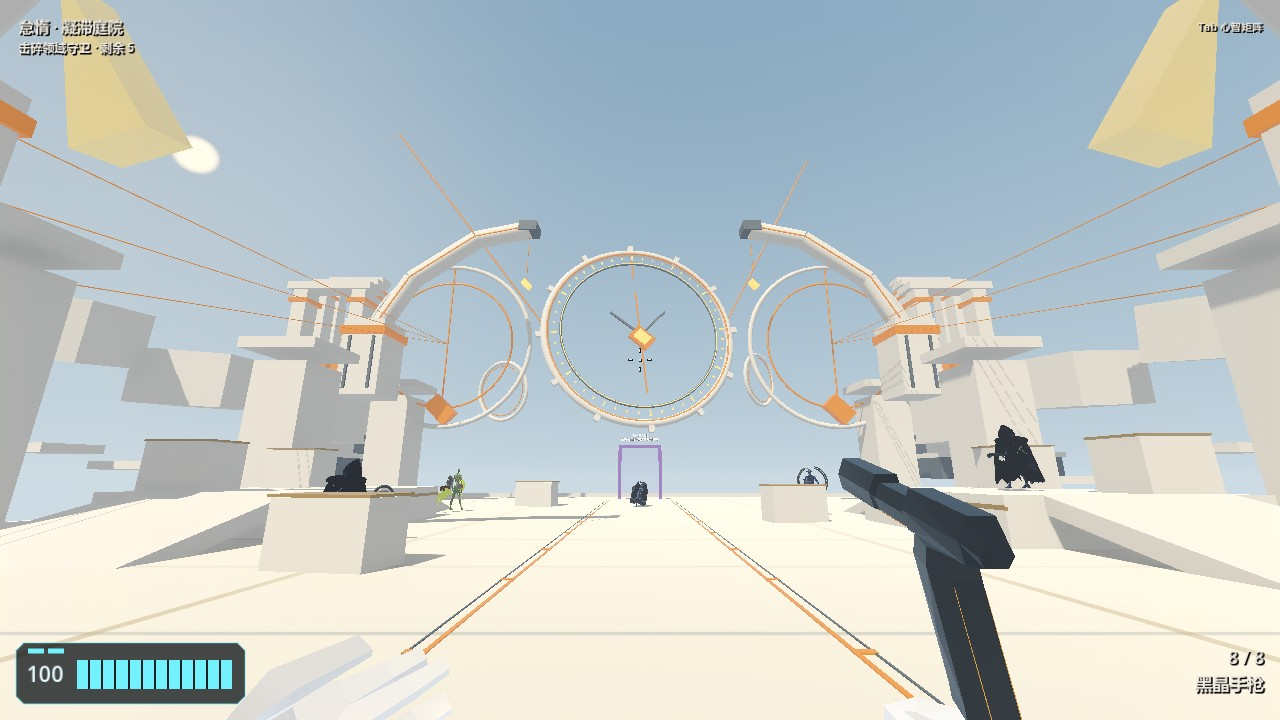
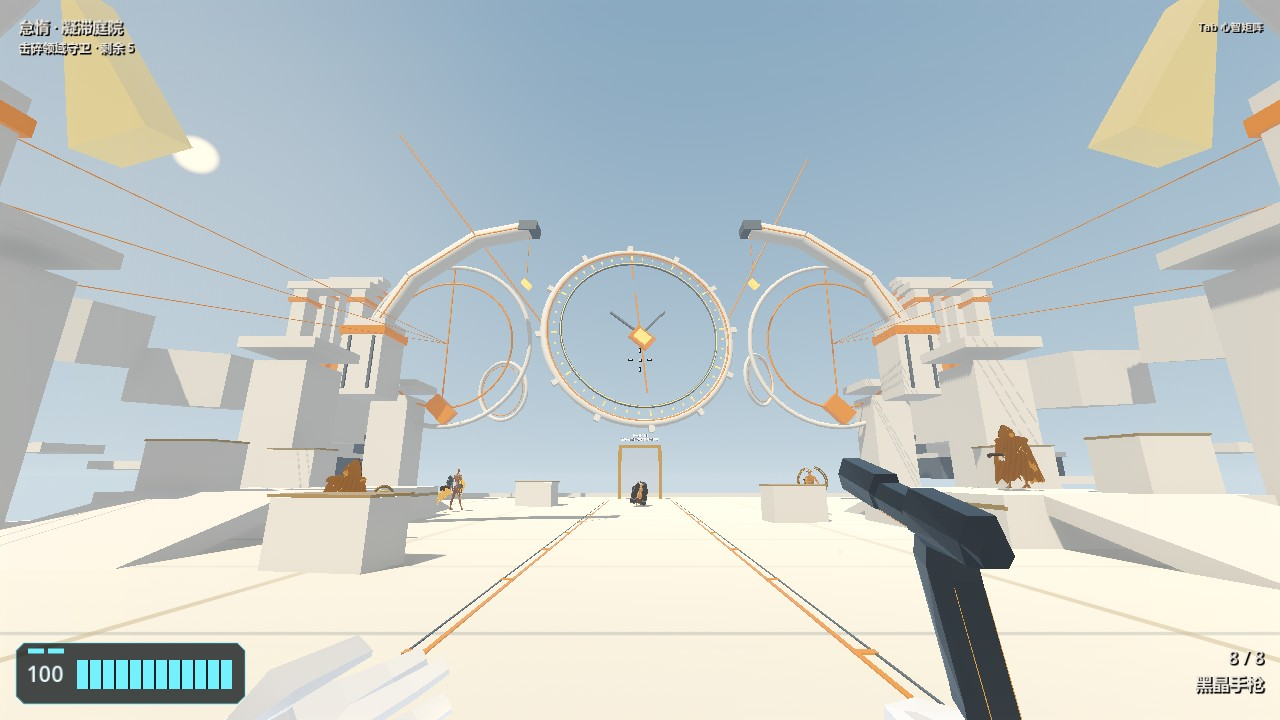
Use the golden Sloth palette in Realm encounters

diff --git a/docs/proof/sloth-sanctum-combat/README.md b/docs/proof/sloth-sanctum-combat/README.md
@@ -12,18 +12,24 @@
 
 | 守卫 | 生命 | 玩法 |
 | --- | ---: | --- |
-| 迟滞者 | 90 | 藏青兜帽和破洞披风，右手持钟环法杖。四枚晶体在杖头附近凝聚 2 秒，最后 0.45 秒锁向，再以 0.18 秒间隔直射。速度 40 米/秒，每枚基础伤害 9。闭篷单弹闪避率 30%，成功冷却 2.5 秒。施法后段暴露双倍胸口弱点，结束或被打断后保留 1 秒。 |
+| 迟滞者 | 90 | 暗金兜帽和破洞披风，右手持钟环法杖。四枚金色晶体在杖头附近凝聚 2 秒，最后 0.45 秒变为浅金并锁向，再以 0.18 秒间隔直射。速度 40 米/秒，每枚基础伤害 9。闭篷单弹闪避率 30%，成功冷却 2.5 秒。施法后段暴露双倍胸口弱点，结束或被打断后保留 1 秒。 |
 | 锚定者 | 140 | 原地向玩家脚下放定点领域。0.95 秒前摇，半径 3.2 米，持续 2.6 秒，领域内步行减速 25%。掩体、离开范围和击倒施法者均可脱离，可冲刺。 |
 | 退缩者 | 180 | 接近后开壳，0.95 秒前摇发低位扩散波。半径 7 米，波速 9 米/秒，命中一次 14 伤，朝起手方向留下 44° 缺口。可跳过、钻缺口或用实体掩体挡；释放后开壳弱点保留 1.6 秒。 |
 | 凝胶异形 | 105 | 不对称的肩背、歪头和拉长的手臂。1.15 秒蓄力，最后 0.35 秒锁向，发射 12 米/秒的直线球。命中后步行减速 35%，每 0.25 秒结算 2.5 点，共四次。定向投射可绕开、被墙挡住或弹反。近战击退可打断前摇；同类持续效果刷新时长，不叠加并行伤害。 |
 
 两小关各增加一名持杖迟滞者与一名凝胶异形。第一房的编排为 2 杖、1 锚、1 退缩、1 凝胶，共 5 名。第二房为 3 杖、2 锚、1 退缩、1 凝胶，共 7 名。伤害和生命沿用领域深度缩放。凝胶段伤害走正常防御结算，深渊、死亡、过门与选卡沿用正式关流程。旧的占点路线与旧独立测试房仍用原配置。
 
+## 金黄色主题
+
+正式关的披风、法杖和晶体轮廓改为暗金至浅金。锚定场与退缩波统一为琥珀黄，分别通过完整定点环和有缺口的移动波区分。凝胶异形用深琥珀骨架搭配蜂蜜金树脂球，和含金属轮廓的其他守卫区分。关闭的门扉采用暖金，白色石材继续作为背景。下方为本次重新拍摄的实机画面。
+
 ## 验证
 
 Godot 4.7.2 原生 Forward+ / Vulkan / RTX 4060 Laptop GPU，1280×720。专门检查覆盖实际走上侧台、导航到达高台、AI 主动起手、四弹释放与锁向后横移、定点减速、低位波缺口与命中、黏液遮挡与四段伤害、暂停及近战打断。原生画面、无界面回归、主线与当前分支的 fixture 结果见本目录日志。
 
 原生 33 项通过，含 4 张截图。14 组相关无界面测试通过，其中正式战役 98 项、天赋球 68 项、新怠惰战斗 29 项、领域坠落 24 项。与主线文件树一致的基线和本分支分别运行固定 60 Hz fixture，FX-001 保持 `edc3fc82c34f1bc0`，FX-002 保持 `ad3703cd93d3073e`。重新运行地图生成器仅产生第二房的 `chamber_style` 预期改动。原生与相关运行日志无脚本错误。源码、证据和截图的 SHA256 记在 `validation.json`。
+
+配色修订再次通过原生 33 项，并复跑正式房间、旧怠惰敌人、沉眠巨像与恐惧引魂者。配色复验见 `gold-native.log` 和 `gold-regression.log`。
 
 Windows 导入仍记录了宿主已知的 `Safe save failed`。本次移除了上游选卡取图场景开头导致 Godot 解析失败的 UTF‑8 BOM。该文件的场景节点保持原样。敌人数与攻击强度为目前的试玩默认。
 

diff --git a/README.md b/README.md
@@ -1,6 +1,6 @@
 # Battlefield Rouge
 
-**怠惰 · 凝滞庭院（2026-11-18，#226）**　两小关新增侧台和双向坡道，门扉距离仍为 36 米。上方加入悬吊巨钟、断拱和浮空钟楼，Boss 房使用更大的巨钟。两房分别有 5 和 7 名守卫。藏青斗篷迟滞者持杖四连发，锚定者放置定点减速场，退缩者发出留有缺口的低位波，新增的凝胶异形会在蓄力后发射减速黏液球。[设计、实机和验证](docs/proof/sloth-sanctum-combat/README.md)。
+**怠惰 · 凝滞庭院（2026-11-18，#226）**　两小关新增侧台和双向坡道，门扉距离仍为 36 米。上方加入悬吊巨钟、断拱和浮空钟楼，Boss 房使用更大的巨钟。两房分别有 5 和 7 名守卫。敌人和攻击统一用怠惰的金黄色，暗金斗篷迟滞者持杖四连发，锚定者放置定点减速场，退缩者发出留有缺口的低位波，凝胶异形发射蜂蜜色减速黏液球。[设计、实机和验证](docs/proof/sloth-sanctum-combat/README.md)。
 
 **恐惧战斗卡顿优化（2026-11-16，#219）：** 房间加载时准备3只待召唤幽魂、56块死亡碎片节点和馈赠目录，战斗中分帧补充/回收。保留幽魂表情、射杀、状态和真实碎片碰撞。本机原生首次召唤最长帧67.4→2.2–3.3ms，最后击杀首次弹卡264.9→43.8–44.0ms；奖励界面仍有构建开销，数据不代表所有设备。[测量、限制与验证](docs/proof/fear-hitches/README.md)。
 

diff --git a/GLOSSARY.md b/GLOSSARY.md
@@ -174,7 +174,7 @@
 | --- | --- | --- |
 | 领域编排器 | `RunDirector` | 深度缩放、跨房保存和终局入口的组合根；本轮暂固定恐惧→怠惰→愤怒→悲伤，随机无重复排列分支保留，默认关闭。 |
 | 领域房间 | `RealmStage` | 两间战斗房及一间Boss房的注入式流程，真实清敌/选卡/拾取/门扉交互。 |
-| 迟滞者 / 锚定者 / 退缩者 | `SlothEnemy` | 正式怠惰房复用早期三类技能。持杖蓄力四连发、定点减速场、带安全缺口的低位开壳波。 |
+| 迟滞者 / 锚定者 / 退缩者 | `SlothEnemy` | 正式怠惰房复用早期三类技能并使用金黄配色。持杖蓄力四连发、定点减速场、带安全缺口的低位开壳波。 |
 | 凝胶异形 | `SlothMire` | 扭曲肩背和不对称拉长的手臂。蓄力后吐出直飞黏液球，命中减速 35% 并在 1 秒内结算 10 点基础伤害。 |
 | 悬钟侧台 | `SlothRealm` / `SlothClockwork` | 两小关保留地面主通道，两侧各有 1.25 米高台和前后坡道。悬吊巨钟、断拱及浮空钟楼为纯景观。 |
 | 沉眠巨像 | `SlothColossus` | 蜷缩琥珀背甲聚合体；击败后休息区永久熄灭。 |

diff --git a/docs/levels/SLOTH_LEVEL_DESIGN.md b/docs/levels/SLOTH_LEVEL_DESIGN.md
@@ -2,6 +2,8 @@
 
 > 2026-11-18 正式关修订。两小关使用 40×48 米庭院，门扉距出生点南北方向 36 米。高空巨钟、断拱和钟楼扩大剪影，两侧以高台、短坡和掩体增加战斗路线。三类守卫的技能以 PR #92 的旧设计为基底。第一房与第二房分别有 2/3 名持杖迟滞者、1/2 名锚定者、各 1 名退缩者与 1 名凝胶异形。详见[当前实现和验证](../proof/sloth-sanctum-combat/README.md)。以下保留原 v0.1 草案。
 
+> 同日配色修订。正式怠惰守卫与攻击回到金黄色主题。斗篷用暗金布和浅金轮廓，锁向时晶体由琥珀变为浅金，黏液使用蜂蜜色。场景保留白石，关闭的门扉用暖金，与悬钟和地面镶条相呼应。
+
 > 2026-11-01 仓库归属更正：本轮任务与实现统一在 Battlefield-Rouge，关联 #45（开场）、#46（场景）、#47（迟滞者）。下方保留原 v0.1 设计草案；当前仅将开场接入现有游戏，完整 Sloth 场景与敌人仍是待开发内容。
 
 > **文件类型**：Level Design Document / LDD（第一层关卡设计草案）

diff --git a/docs/ASSETS.md b/docs/ASSETS.md
@@ -4,6 +4,8 @@
 
 悬钟、断拱、远处钟楼、法杖及黏液球均由项目内代码生成。凝胶异形复用已登记的红晶体骨骼，采用独立材料、骨骼姿态和凸起几何。披风、锚环和开壳结构复用项目原有 SlothVisual。天空和石板沿用已登记的怠惰着色器。取证图来自 Godot 4.7.2 原生运行，保存为 JPEG，原生画面未重绘。来源和逐文件 SHA256 见 [验证记录](proof/sloth-sanctum-combat/README.md)。
 
+金黄色修订使用游戏内实例材质和现有披风着色器的施法光色参数。披风、法杖、场地攻击和黏液球的重新取图沿用原证明目录。
+
 ## 恐惧卡顿优化取证（2026-11-16，#219）
 
 `docs/proof/fear-hitches/wisp-warning.jpg`为本项目Godot4.7.2原生`fear_reaper_test.tscn`截图，展示预建演员激活后仍保留原张嘴表情。仅PNG转JPEG，没有重绘或生成式替换；SHA256与字节数见同目录`validation.json`。性能改动复用已登记的模型、材质和声音，没有增加第三方素材。
